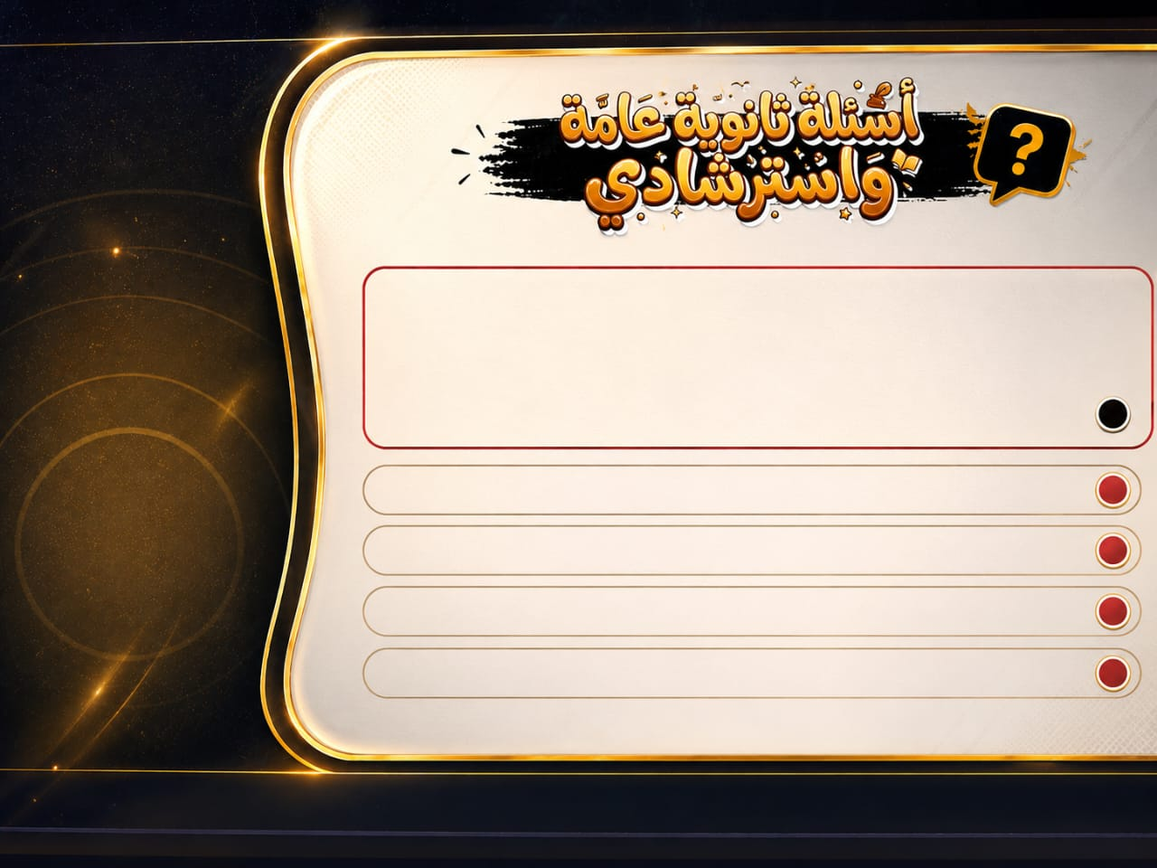
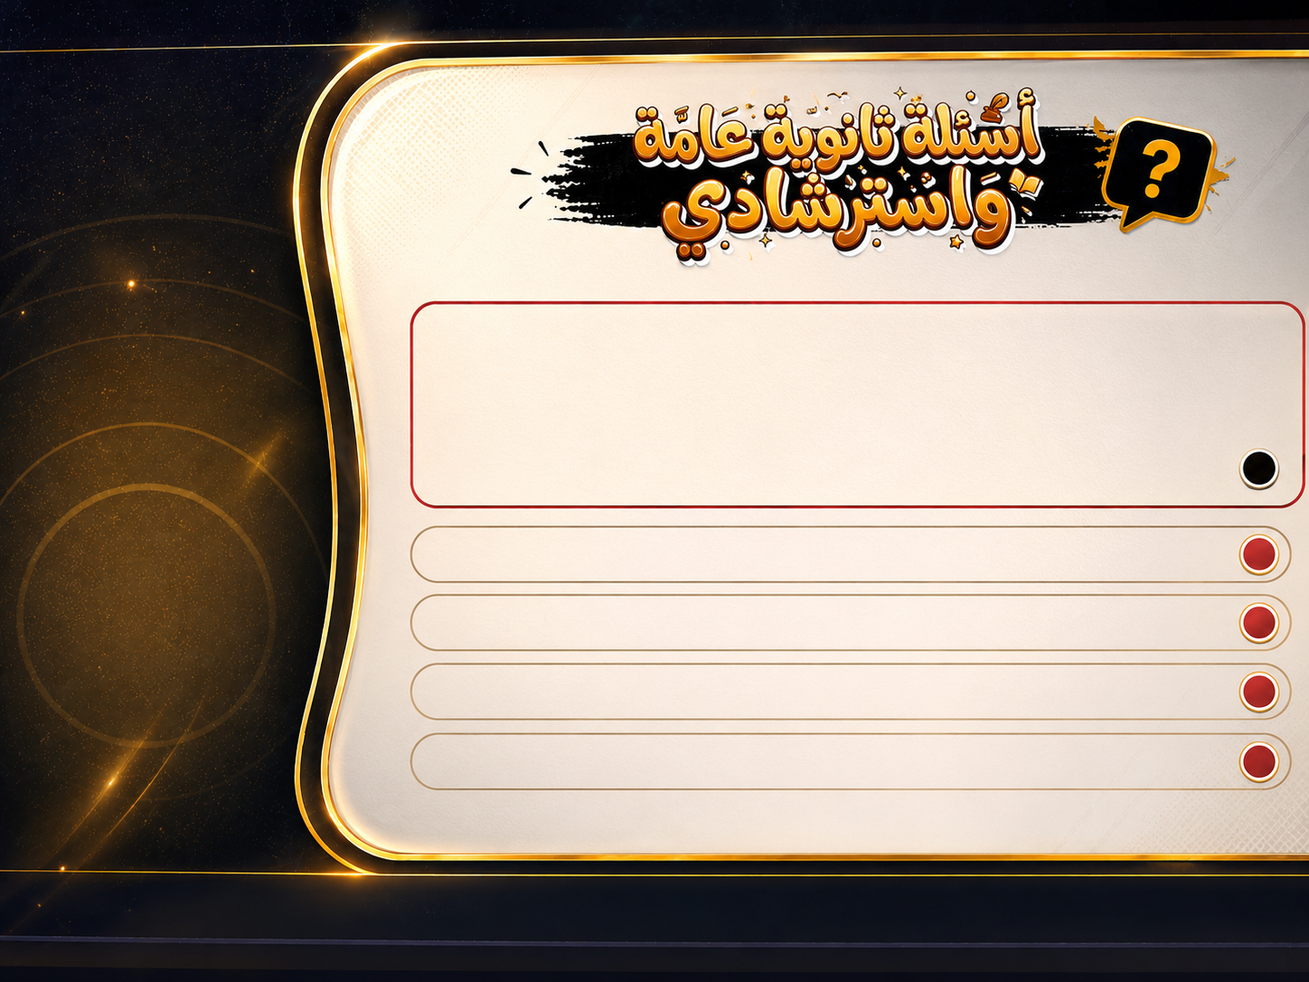
Add quick review feature

diff --git a/src/admin/parts/QuestionBankManager.jsx b/src/admin/parts/QuestionBankManager.jsx
@@ -57,11 +57,13 @@ const parseMetaLine = (line = '') => {
 
 const parseOptionLine = (line = '') => {
   const text = cleanImportedLine(line);
-  const match = text.match(/^([أابجدهـهوA-Da-d])\s*[\)\].\-:：،]\s*(.+)$/u);
+  const correctByLeadingMarker = /^[(\[]?\s*\*\s*[)\]]?/.test(text);
+  const withoutCorrectMarker = text.replace(/^[(\[]?\s*\*\s*[)\]]?\s*/, '');
+  const match = withoutCorrectMarker.match(/^([أابجدهـهوA-Fa-f])\s*[\)\].\-:：،]\s*(.+)$/u);
   if (!match) return null;
   const rawLabel = match[1].toUpperCase();
   const label = rawLabel === 'ا' ? 'أ' : rawLabel;
-  return { label, text: cleanImportedLine(match[2]) };
+  return { label, text: cleanImportedLine(match[2]), correctByLeadingMarker };
 };
 
 const labelToIndex = (label = '') => {
@@ -150,7 +152,11 @@ const parseQuestionBankLines = (lines, settings) => {
       explanation: question.explanation.trim(),
       mark: hasOptions ? 1 : 10,
       tags: Array.from(new Set([branch, topic, ...(settings.tags || [])].filter(Boolean))),
-      source: 'question_bank_import',
+      source: settings.quickReviewMode ? 'quick_review_import' : 'question_bank_import',
+      quickReview: Boolean(settings.quickReviewMode),
+      examType: settings.quickReviewMode ? 'quick_review' : undefined,
+      questionVisualTemplate: settings.quickReviewMode ? 'reference-paper' : undefined,
+      visualTemplate: settings.quickReviewMode ? 'reference-paper' : undefined,
     });
     question = null;
   };
@@ -212,7 +218,7 @@ const parseQuestionBankLines = (lines, settings) => {
     if (!question) return;
 
     if (option) {
-      const correctByMarker = /\*/.test(option.text) || highlighted;
+      const correctByMarker = option.correctByLeadingMarker || /\*/.test(option.text) || highlighted;
       const nextIndex = question.options.length;
       question.options.push({ ...option, text: option.text.replace(/\*/g, '').trim(), correctByMarker, highlighted });
       if (correctByMarker) question.correctIdx = nextIndex;
@@ -242,7 +248,7 @@ const parseQuestionBankLines = (lines, settings) => {
   return { questions: results, warnings };
 };
 
-export const QuestionBankManager = ({ adminGradeFilter }) => {
+export const QuestionBankManager = ({ adminGradeFilter, quickReviewMode = false }) => {
   const [questions, setQuestions] = useState([]);
   const [filters, setFilters] = useState({ grade: adminGradeFilter === 'all' ? '' : adminGradeFilter, branch: '', type: '', topic: '', search: '' });
   const [form, setForm] = useState({ text: '', grade: adminGradeFilter === 'all' ? '3sec' : adminGradeFilter, branch: 'النحو', topic: '', type: 'mcq', difficulty: 'medium', optionsText: '', correctIdx: 0, explanation: '', mark: 1, tags: '' });
@@ -251,6 +257,10 @@ export const QuestionBankManager = ({ adminGradeFilter }) => {
   const [importWarnings, setImportWarnings] = useState([]);
   const [importBusy, setImportBusy] = useState(false);
   const fileInputRef = useRef(null);
+  const modeTitle = quickReviewMode ? 'مراجعة في السريع' : 'بنك الأسئلة';
+  const modeIntro = quickReviewMode
+    ? 'هنا بتضيف أسئلة مراجعة في السريع يدويًا أو من TXT / PDF / DOCX، والطالب يشوفها على نفس التصميم المرفوع بدون ما التصميم يتكسر.'
+    : 'إدارة بنك الأسئلة للنحو والبلاغة.';
 
   useEffect(() => {
       const unsub = onSnapshot(query(collection(db, 'question_bank'), orderBy('createdAt', 'desc'), limit(300)), (snap) => {
@@ -278,10 +288,15 @@ export const QuestionBankManager = ({ adminGradeFilter }) => {
       type: form.type,
       difficulty: form.difficulty,
       options,
-      correctIdx: safeNumber(form.correctIdx, 0),
+      correctIdx: starredIndex >= 0 ? starredIndex : safeNumber(form.correctIdx, 0),
       explanation: form.explanation,
       mark: safeNumber(form.mark, form.type === 'essay' ? 10 : 1),
       tags: form.tags.split(',').map(t => t.trim()).filter(Boolean),
+      quickReview: Boolean(quickReviewMode),
+      examType: quickReviewMode ? 'quick_review' : undefined,
+      questionVisualTemplate: quickReviewMode ? 'reference-paper' : undefined,
+      visualTemplate: quickReviewMode ? 'reference-paper' : undefined,
+      source: quickReviewMode ? 'quick_review_manual' : 'question_bank_manual',
       createdAt: serverTimestamp()
     });
     setForm(prev => ({ ...prev, text: '', optionsText: '', explanation: '', tags: '', topic: '' }));
@@ -309,6 +324,7 @@ export const QuestionBankManager = ({ adminGradeFilter }) => {
       }
       const parsed = parseQuestionBankLines(lines, {
         ...importSettings,
+        quickReviewMode,
         tags: importSettings.tags.split(',').map((tag) => tag.trim()).filter(Boolean),
       });
       setImportPreview(parsed.questions);
@@ -354,7 +370,7 @@ export const QuestionBankManager = ({ adminGradeFilter }) => {
   };
 
   const createExamFromBank = async () => {
-    const pool = questions.filter(q => (!filters.grade || q.grade === filters.grade) && (!filters.branch || q.branch === filters.branch) && (!filters.type || q.type === filters.type) && (!filters.topic || (q.topic || q.lesson || '').includes(filters.topic)) && (!filters.search || `${q.text} ${(q.tags || []).join(' ')} ${q.explanation || ''}`.includes(filters.search)));
+    const pool = questions.filter(q => (!quickReviewMode || q.quickReview === true || q.examType === 'quick_review' || q.source === 'quick_review_import' || q.source === 'quick_review_manual') && (!filters.grade || q.grade === filters.grade) && (!filters.branch || q.branch === filters.branch) && (!filters.type || q.type === filters.type) && (!filters.topic || (q.topic || q.lesson || '').includes(filters.topic)) && (!filters.search || `${q.text} ${(q.tags || []).join(' ')} ${q.explanation || ''}`.includes(filters.search)));
     if (pool.length === 0) return platformNotify('لا توجد أسئلة مطابقة للفلاتر الحالية');
     const selected = pool.slice(0, Math.min(pool.length, 20));
     const grouped = {};
@@ -374,29 +390,35 @@ export const QuestionBankManager = ({ adminGradeFilter }) => {
       });
     });
     await addDoc(collection(db, 'exams'), {
-      title: `امتحان مُولَّد من بنك الأسئلة - ${getGradeLabel(filters.grade || selected[0].grade)}`,
+      title: quickReviewMode ? `مراجعة في السريع - ${getGradeLabel(filters.grade || selected[0].grade)}` : `امتحان مُولَّد من بنك الأسئلة - ${getGradeLabel(filters.grade || selected[0].grade)}`,
       grade: filters.grade || selected[0].grade,
-      duration: Math.max(15, selected.length * 2),
+      duration: quickReviewMode ? Math.max(10, selected.length) : Math.max(15, selected.length * 2),
       startTime: new Date().toISOString().slice(0,16),
       endTime: new Date(Date.now() + 7*24*60*60*1000).toISOString().slice(0,16),
       accessCode: Math.random().toString(36).slice(2, 7).toUpperCase(),
       isPremium: false,
       questions: Object.values(grouped),
+      quickReview: Boolean(quickReviewMode),
+      examType: quickReviewMode ? 'quick_review' : 'standard',
+      category: quickReviewMode ? 'quick_review' : undefined,
+      questionVisualTemplate: quickReviewMode ? 'reference-paper' : undefined,
+      uiTemplate: quickReviewMode ? 'reference-paper' : undefined,
+      templateDesign: quickReviewMode ? 'reference-paper' : undefined,
       createdAt: serverTimestamp(),
-      source: 'question_bank'
+      source: quickReviewMode ? 'quick_review' : 'question_bank'
     });
     platformNotify('تم إنشاء امتحان جديد من بنك الأسئلة بنجاح');
   };
 
-  const visible = questions.filter(q => (!filters.grade || q.grade === filters.grade) && (!filters.branch || q.branch === filters.branch) && (!filters.type || q.type === filters.type) && (!filters.topic || (q.topic || q.lesson || '').includes(filters.topic)) && (!filters.search || `${q.text} ${(q.tags || []).join(' ')} ${q.explanation || ''}`.includes(filters.search)));
+  const visible = questions.filter(q => (!quickReviewMode || q.quickReview === true || q.examType === 'quick_review' || q.source === 'quick_review_import' || q.source === 'quick_review_manual') && (!filters.grade || q.grade === filters.grade) && (!filters.branch || q.branch === filters.branch) && (!filters.type || q.type === filters.type) && (!filters.topic || (q.topic || q.lesson || '').includes(filters.topic)) && (!filters.search || `${q.text} ${(q.tags || []).join(' ')} ${q.explanation || ''}`.includes(filters.search)));
 
   return (
     <div className="space-y-6">
       <div className="glass-panel p-4 md:p-6 rounded-xl border border-indigo-100 bg-gradient-to-br from-white to-indigo-50/40">
         <div className="flex flex-col md:flex-row md:items-center md:justify-between gap-3 mb-4">
           <div>
-            <h2 className="text-xl font-bold text-indigo-700 flex items-center gap-2"><Layers/> بنك الأسئلة الشامل</h2>
-            <p className="text-sm text-slate-500 mt-1">ارفع ملفات نحو وبلاغة كاملة، والنظام يفرز الأسئلة حسب الفرع والموضوع، مع دعم علامة * والتظليل في Word.</p>
+            <h2 className="text-xl font-bold text-indigo-700 flex items-center gap-2"><Layers/> {modeTitle} الشامل</h2>
+            <p className="text-sm text-slate-500 mt-1">{modeIntro}</p>
           </div>
           <span className="bg-indigo-100 text-indigo-700 px-3 py-1 rounded-full text-xs font-bold">{questions.length} سؤال محفوظ</span>
         </div>
@@ -423,7 +445,7 @@ export const QuestionBankManager = ({ adminGradeFilter }) => {
             <button type="button" disabled={importBusy || importPreview.length === 0} onClick={saveImportedQuestions} className="bg-emerald-600 disabled:bg-slate-300 text-white py-3 px-6 rounded-xl font-bold whitespace-nowrap flex items-center justify-center gap-2"><FileCheck className="w-5 h-5"/> حفظ المعاينة</button>
           </div>
           <div className="mt-3 text-xs text-slate-600 leading-6 bg-slate-50 rounded-xl p-3">
-            <b>الصيغ المدعومة:</b> TXT و DOCX و PDF نصي. ضع <b>*</b> بجانب الإجابة الصحيحة أو ظلّل سطر الإجابة في Word. اكتب عناوين مثل <b># النحو</b> ثم <b>## المنادى</b> أو <b># البلاغة</b> ثم <b>## التشبيه</b> عشان يتخزن الفرع والموضوع تلقائيًا.
+            <b>الصيغ المدعومة:</b> TXT و DOCX و PDF نصي. ضع <b>*</b> قبل/داخل الاختيار الصحيح أو ظلّل سطر الإجابة في Word. اكتب عناوين مثل <b># النحو</b> ثم <b>## المنادى</b> أو <b># البلاغة</b> ثم <b>## التشبيه</b> عشان يتخزن الفرع والموضوع تلقائيًا.
           </div>
           {importWarnings.length > 0 && <div className="mt-3 bg-amber-50 border border-amber-200 text-amber-800 rounded-xl p-3 text-sm space-y-1">{importWarnings.slice(0, 6).map((warning, idx) => <p key={idx}>• {warning}</p>)}</div>}
           {importPreview.length > 0 && <div className="mt-4 bg-slate-50 rounded-xl p-3 max-h-72 overflow-y-auto space-y-2">
@@ -459,7 +481,7 @@ export const QuestionBankManager = ({ adminGradeFilter }) => {
           <textarea className="border p-3 rounded h-20" placeholder="شرح الإجابة / قاعدة المراجعة الذكية" value={form.explanation} onChange={e=>setForm({...form, explanation:e.target.value})}/>
           <div className="flex flex-col md:flex-row gap-3">
             <button className="bg-indigo-600 text-white py-3 px-6 rounded-xl font-bold">إضافة للسجل</button>
-            <button type="button" onClick={createExamFromBank} className="bg-emerald-600 text-white py-3 px-6 rounded-xl font-bold">توليد امتحان من الفلاتر الحالية</button>
+            <button type="button" onClick={createExamFromBank} className="bg-emerald-600 text-white py-3 px-6 rounded-xl font-bold">{quickReviewMode ? 'نشر مراجعة في السريع من الفلاتر' : 'توليد امتحان من الفلاتر الحالية'}</button>
           </div>
         </form>
       </div>
@@ -473,7 +495,7 @@ export const QuestionBankManager = ({ adminGradeFilter }) => {
         </div>
         <div className="flex flex-col md:flex-row gap-3 md:items-center md:justify-between mb-4">
           <p className="text-sm text-slate-500">المعروض الآن: <b>{visible.length}</b> سؤال</p>
-          <button type="button" onClick={createExamFromBank} className="bg-emerald-600 text-white py-2 px-5 rounded-xl font-bold">توليد امتحان من النحو/البلاغة حسب الفلاتر</button>
+          <button type="button" onClick={createExamFromBank} className="bg-emerald-600 text-white py-2 px-5 rounded-xl font-bold">{quickReviewMode ? 'نشر المراجعة للطلاب' : 'توليد امتحان من النحو/البلاغة حسب الفلاتر'}</button>
         </div>
         <div className="space-y-3 max-h-[500px] overflow-y-auto">
           {visible.map(q => <div key={q.id} className="bg-white border rounded-xl p-4">

diff --git a/src/student/parts/StudentDashboard.jsx b/src/student/parts/StudentDashboard.jsx
@@ -39,6 +39,66 @@ const StudentMessagesInbox = lazy(() => import('../../features/smartLearning/Sma
 const StudentRemediationCenter = lazy(() => import('../../features/smartLearning/SmartLearningEngine.jsx').then((module) => ({ default: module.StudentRemediationCenter })));
 const ExamPreStartPanel = lazy(() => import('../../features/smartLearning/SmartLearningEngine.jsx').then((module) => ({ default: module.ExamPreStartPanel })));
 
+
+function isQuickReviewExamItem(exam = {}) {
+  return Boolean(
+    exam.quickReview === true ||
+    exam.examType === 'quick_review' ||
+    exam.category === 'quick_review' ||
+    String(exam.title || '').includes('مراجعة في السريع') ||
+    String(exam.title || '').includes('مراجعة ف السريع')
+  );
+}
+
+function StudentQuickReviewPanel({ exams = [], userData, onStartExam }) {
+  const studentGrade = userData?.grade || '';
+  const quickReviews = exams
+    .filter((exam) => isQuickReviewExamItem(exam))
+    .filter((exam) => !exam.grade || !studentGrade || exam.grade === studentGrade || exam.grade === 'all')
+    .sort((a, b) => new Date(b.createdAt?.toDate ? b.createdAt.toDate() : b.startTime || 0).getTime() - new Date(a.createdAt?.toDate ? a.createdAt.toDate() : a.startTime || 0).getTime());
+
+  return (
+    <div className="space-y-6 page-soft-enter" dir="rtl">
+      <StudentV2SectionTitle
+        badge="مراجعة سريعة"
+        title="مراجعة في السريع"
+        description="أسئلة قصيرة بنفس التصميم الورقي المرفوع: السؤال في المربع والاختيارات في أماكنها، يعني مفيش بهدلة CSS قبل الامتحان."
+      />
+      <div className="grid grid-cols-1 md:grid-cols-2 xl:grid-cols-3 gap-4">
+        {quickReviews.map((exam) => (
+          <div key={exam.id} className="bg-white border border-amber-100 rounded-3xl p-5 shadow-sm hover:shadow-lg transition">
+            <div className="flex items-start justify-between gap-3 mb-4">
+              <div>
+                <p className="text-[11px] font-black text-amber-600 bg-amber-50 border border-amber-100 rounded-full px-3 py-1 inline-flex mb-2">{getGradeLabel(exam.grade)}</p>
+                <h3 className="text-lg font-black text-slate-950 leading-7">{exam.title || 'مراجعة في السريع'}</h3>
+              </div>
+              <ClipboardList className="text-amber-600 shrink-0" />
+            </div>
+            <div className="grid grid-cols-2 gap-2 text-xs font-bold text-slate-600 mb-4">
+              <div className="rounded-2xl bg-slate-50 p-3">الأسئلة: {Array.isArray(exam.questions) ? exam.questions.reduce((sum, group) => sum + (group.subQuestions?.length || 0), 0) : 0}</div>
+              <div className="rounded-2xl bg-slate-50 p-3">المدة: {exam.duration || 10} دقيقة</div>
+            </div>
+            <button
+              type="button"
+              onClick={() => onStartExam?.(exam, { skipCode: true })}
+              className="w-full rounded-2xl bg-amber-600 px-5 py-3 font-black text-white shadow-md hover:bg-amber-700 transition"
+            >
+              ابدأ المراجعة الآن
+            </button>
+          </div>
+        ))}
+      </div>
+      {quickReviews.length === 0 && (
+        <div className="bg-white border border-dashed border-amber-200 rounded-3xl p-8 text-center shadow-sm">
+          <Sparkles className="mx-auto mb-3 text-amber-500" size={34} />
+          <h3 className="text-xl font-black text-slate-900 mb-2">لا توجد مراجعات سريعة متاحة حاليًا</h3>
+          <p className="text-sm font-bold text-slate-500">أول ما الأدمن ينشر مراجعة، هتظهر هنا فورًا.</p>
+        </div>
+      )}
+    </div>
+  );
+}
+
 const LazyPanelFallback = () => (
   <div className="rounded-3xl border border-amber-100 bg-white/80 p-6 text-center text-sm font-bold text-amber-700 shadow-sm">
     جاري تحميل الجزء المطلوب...
@@ -652,7 +712,7 @@ export const StudentDashboard = ({ user, userData, installPrompt }) => {
               adminDecision: null,
               resumeApproved: false,
               sourceVideoId: options.sourceVideoId || null,
-              startedFromVideo: !!options.skipCode,
+              startedFromVideo: !!options.sourceVideoId,
               submittedAt: serverTimestamp()
             });
             setActiveExam({ ...exam, attemptId: attemptRef.id, sourceVideoId: options.sourceVideoId || null });
@@ -837,6 +897,8 @@ export const StudentDashboard = ({ user, userData, installPrompt }) => {
               />
             </div>
         )}
+
+          {activeTab === 'quick_review' && !isBannedExam && <StudentQuickReviewPanel exams={exams} userData={userData} onStartExam={startExamWithCode} />}
 
           {activeTab === 'courses' && !isBannedContent && <div className="space-y-6 page-soft-enter"><StudentV2SectionTitle badge="الكورسات" title="مركز الكورسات التعليمية" description="كل الكورسات، المحاضرات المباشرة، والاختبارات المرتبطة في واجهة واحدة." /><StudentLiveClassesPanel userData={userData} /><LazyPanel><StudentCoursesHub user={user} userData={userData} exams={exams} onStartExam={startExamWithCode} /></LazyPanel></div>}
 

diff --git a/src/config/adminPermissions.js b/src/config/adminPermissions.js
@@ -21,6 +21,7 @@ export const ADMIN_TAB_LABELS = Object.freeze({
   security_center: 'مركز الحماية',
   app_convert: 'تحويل App',
   question_bank: 'بنك الأسئلة',
+  quick_review: 'مراجعة في السريع',
   smart_exam_engine: 'محرك الامتحانات الذكي',
   student_reports: 'تقارير الطلاب',
   student_groups: 'المجموعات والدفعات',
@@ -44,9 +45,9 @@ export const ADMIN_TABS = Object.freeze(Object.entries(ADMIN_TAB_LABELS));
 export const ROLE_TAB_ACCESS = Object.freeze({
   owner: Object.keys(ADMIN_TAB_LABELS),
   manager: Object.keys(ADMIN_TAB_LABELS).filter((tab) => !['admin_roles'].includes(tab)),
-  exams_supervisor: ['dashboard', 'follow_up', 'exams', 'question_bank', 'smart_exam_engine', 'security_center', 'video_security', 'student_reports', 'mistakes_admin'],
+  exams_supervisor: ['dashboard', 'follow_up', 'exams', 'question_bank', 'quick_review', 'smart_exam_engine', 'security_center', 'video_security', 'student_reports', 'mistakes_admin'],
   students_supervisor: ['dashboard', 'follow_up', 'users', 'all_users', 'student_reports', 'student_groups', 'messages_center', 'notifications_admin', 'password_resets'],
-  content_supervisor: ['dashboard', 'content', 'courses', 'assignments', 'smart_hw', 'question_bank', 'notifications_admin'],
+  content_supervisor: ['dashboard', 'content', 'courses', 'assignments', 'smart_hw', 'question_bank', 'quick_review', 'notifications_admin'],
   finance_supervisor: ['dashboard', 'payments', 'subscriptions_legacy', 'finance_dashboard', 'all_users'],
   support: ['dashboard', 'users', 'all_users', 'messages_center', 'password_resets', 'notifications_admin'],
 });

diff --git a/src/admin/parts/AdminDashboardTabs.jsx b/src/admin/parts/AdminDashboardTabs.jsx
@@ -29,7 +29,7 @@ import SmartSubscriptionManager from './SmartSubscriptionManager.jsx';
 
 
 import AdminPendingUsersPage from '../pages/AdminPendingUsersPage.jsx';
-import { AdminAssignmentsPage, AdminExamViewTabs, AdminQuestionBankPage } from '../pages/AdminUtilityPages.jsx';
+import { AdminAssignmentsPage, AdminExamViewTabs, AdminQuestionBankPage, AdminQuickReviewPage } from '../pages/AdminUtilityPages.jsx';
 
 import AdminFollowUpPanel from '../../features/insights/AdminFollowUpPanel.jsx';
 import AdminSmartHomeworkManager from '../../features/homework/AdminSmartHomeworkManager.jsx';
@@ -548,6 +548,12 @@ export default function AdminDashboardTabs({ ctx }) {
               onNotify={platformNotify}
               onDeleteAll={handleDeleteAllHomework}
             />
+          )}
+
+          {activeTab === 'quick_review' && (
+            <div className="space-y-6">
+              <AdminQuickReviewPage adminGradeFilter={adminGradeFilter} />
+            </div>
           )}
 
           {activeTab === 'question_bank' && (

diff --git a/src/admin/pages/AdminUtilityPages.jsx b/src/admin/pages/AdminUtilityPages.jsx
@@ -8,6 +8,10 @@ export function AdminQuestionBankPage({ adminGradeFilter }) {
   return <InlineTabs tabs={[{ key: 'bank', label: 'إدارة بنك الأسئلة', content: <QuestionBankManager adminGradeFilter={adminGradeFilter} /> }]} />;
 }
 
+export function AdminQuickReviewPage({ adminGradeFilter }) {
+  return <InlineTabs tabs={[{ key: 'quick_review', label: 'مراجعة في السريع', content: <QuestionBankManager adminGradeFilter={adminGradeFilter} quickReviewMode /> }]} />;
+}
+
 export function AdminAssignmentsPage({ adminGradeFilter, handleDeleteAllHomework }) {
   return (
     <div className="space-y-4">

diff --git a/src/admin/v2/adminPageMeta.js b/src/admin/v2/adminPageMeta.js
@@ -49,6 +49,11 @@ export const adminPageMeta = {
     title: 'بنك الأسئلة',
     description: 'تنظيم الأسئلة وتحليلها تمهيدًا لاستخدامها داخل الامتحانات الذكية.',
   },
+  quick_review: {
+    eyebrow: 'Quick Review',
+    title: 'مراجعة في السريع',
+    description: 'رفع أسئلة مراجعة سريعة على التصميم الورقي الجاهز ونشرها للطلاب.',
+  },
   assignments: {
     eyebrow: 'Homework Ops',
     title: 'الواجبات والتسليمات',

diff --git a/src/shared/constants/navigation.js b/src/shared/constants/navigation.js
@@ -1,8 +1,9 @@
-import { ClipboardList, Layout, LogOut, PlayCircle } from '../icons/lucide-shim.jsx';
+import { ClipboardList, Layout, LogOut, PlayCircle, Sparkles } from '../icons/lucide-shim.jsx';
 
 export const MOBILE_STUDENT_NAV_ITEMS = [
   { key: 'home', label: 'الرئيسية', icon: Layout },
   { key: 'videos', label: 'المحاضرات', icon: PlayCircle },
   { key: 'exams', label: 'الامتحانات', icon: ClipboardList },
+  { key: 'quick_review', label: 'مراجعة', icon: Sparkles },
   { key: 'logout', label: 'خروج', icon: LogOut }
 ];

diff --git a/src/features/student/MobileStudentBottomNav.jsx b/src/features/student/MobileStudentBottomNav.jsx
@@ -11,7 +11,7 @@ const MobileStudentBottomNav = ({ activeTab, setActiveTab }) => {
 
   return (
     <div className="md:hidden fixed bottom-0 left-0 right-0 z-[9990] bg-white border-t border-slate-200 shadow-[0_-8px_24px_rgba(0,0,0,0.08)] px-2 py-2 safe-bottom-nav">
-      <div className="grid grid-cols-4 gap-1">
+      <div className="grid grid-cols-5 gap-1">
         {MOBILE_STUDENT_NAV_ITEMS.map(item => {
           const Icon = item.icon;
           const active = activeTab === item.key;

diff --git a/src/student/v2/StudentV2Chrome.jsx b/src/student/v2/StudentV2Chrome.jsx
@@ -57,6 +57,7 @@ const navGroups = [
     permission: 'exam',
     items: [
       { tab: 'exams', label: 'الامتحانات', icon: ClipboardList },
+      { tab: 'quick_review', label: 'مراجعة في السريع', icon: Sparkles, tone: 'purple' },
       { tab: 'assignments', label: 'الواجبات وبنك الأخطاء', icon: FileCheck, alias: ['assignments', 'smart_hw_results', 'mistakes_bank'], action: 'learningHub' },
     ],
   },
